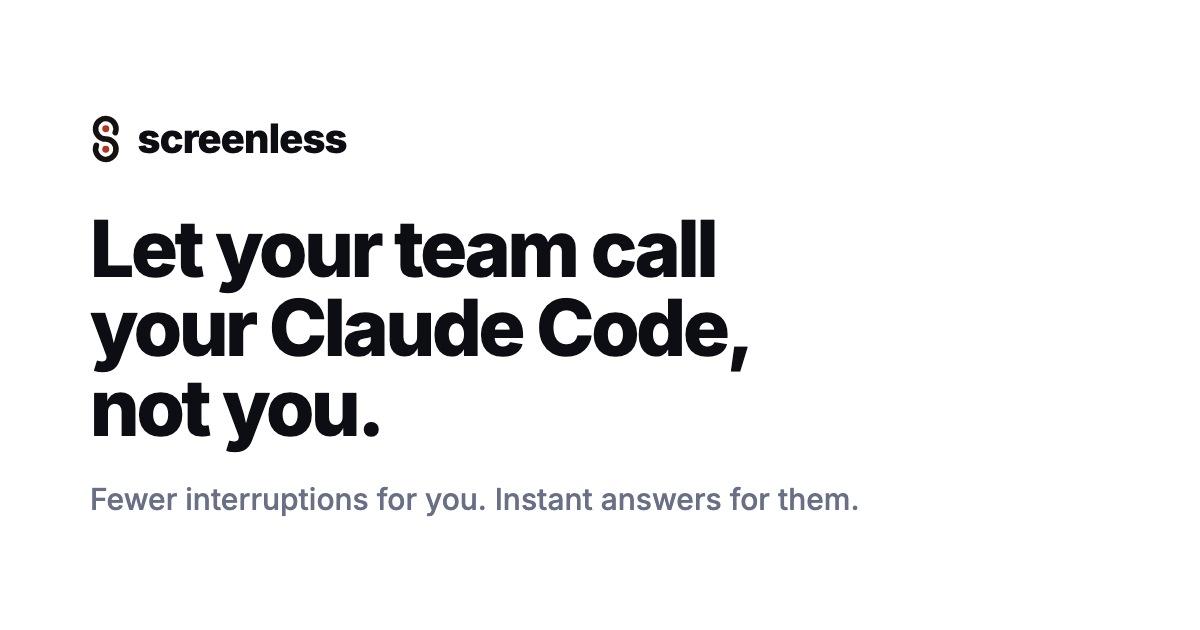
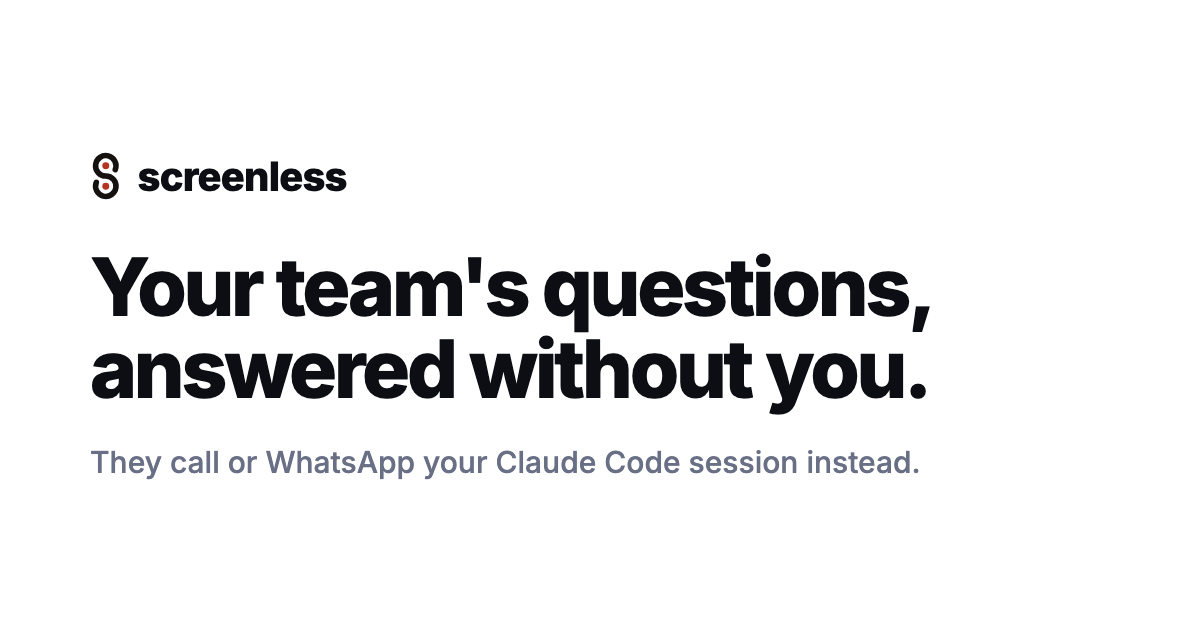
Headline "Your team's questions, answered without you"; say WhatsApp chats
Jan: "Your team's questions, answered without you" is clearer and stronger
than "Let your team call your Claude Code, not you", which reads two
ways. It is the headline now, on the page, the title, the social card,
the README and llms.txt; the section that borrowed that phrase is now
"Everything they used to ask you". And he asked for the page and README
to say what was just built: they can message the session on WhatsApp,
with screenshots and voice notes, a conversation keeping its context —
in the hero, step 3, the "for you" section, a new FAQ answer, and the
Slack answer, which now says screenless is for everywhere but a desk.

Changed region(s): [[0.0617, 0.181, 0.7708, 0.8143]]

diff --git a/site/src/index.html b/site/src/index.html
@@ -3,15 +3,15 @@
 <head>
 <meta charset="utf-8">
 <meta name="viewport" content="width=device-width, initial-scale=1">
-<title>screenless — let your team call your Claude Code</title>
+<title>screenless — your team's questions, answered without you</title>
 <!-- Kept under ~155 characters, which is where Google truncates. The old one
      ran to 192 and lost the price, which is the part people search for. -->
-<meta name="description" content="Let your team call your Claude Code session instead of you: it answers from your code and acts under your rules. By phone or WhatsApp. $10 free.">
+<meta name="description" content="Give your team a number for your Claude Code session: they call or WhatsApp it, and it answers from your code and does what you allow. $10 free.">
 <link rel="canonical" href="https://screenless.sh/">
 <meta name="theme-color" content="#fdfcfa">
 
-<meta property="og:title" content="Let your team call your Claude Code, not you.">
-<meta property="og:description" content="Let your team call your Claude Code session instead of you: it answers from your code and acts under your rules. By phone or WhatsApp. $10 free.">
+<meta property="og:title" content="Your team's questions, answered without you.">
+<meta property="og:description" content="Give your team a number for your Claude Code session: they call or WhatsApp it, and it answers from your code and does what you allow. $10 free.">
 <meta property="og:type" content="website">
 <meta property="og:url" content="https://screenless.sh/">
 <meta property="og:site_name" content="screenless">
@@ -19,10 +19,10 @@
 <meta property="og:image" content="https://screenless.sh/og.png">
 <meta property="og:image:width" content="1200">
 <meta property="og:image:height" content="630">
-<meta property="og:image:alt" content="screenless: let your team call your Claude Code, not you.">
+<meta property="og:image:alt" content="screenless: Your team's questions, answered without you.">
 <meta name="twitter:card" content="summary_large_image">
-<meta name="twitter:title" content="Let your team call your Claude Code, not you.">
-<meta name="twitter:description" content="Let your team call your Claude Code session instead of you: it answers from your code and acts under your rules. By phone or WhatsApp. $10 free.">
+<meta name="twitter:title" content="Your team's questions, answered without you.">
+<meta name="twitter:description" content="Give your team a number for your Claude Code session: they call or WhatsApp it, and it answers from your code and does what you allow. $10 free.">
 <meta name="twitter:image" content="https://screenless.sh/og.png">
 <!-- The mark: an S of two half circles, a dot centred in each bowl. -->
 <link rel="icon" href="/logo.svg" type="image/svg+xml">
@@ -47,7 +47,7 @@
       "url": "https://screenless.sh/",
       "applicationCategory": "DeveloperApplication",
       "operatingSystem": "macOS, Linux",
-      "description": "A phone number for a developer's Claude Code session that their whole team can call. Teammates ring it, by phone or WhatsApp, and the session they reach, with everything it knows right now, answers from the code, tickets and docs, or acts, under rules the developer sets per person, on the developer's own machine. Phone calls are rung back to the caller's verified number. The developer can call it too.",
+      "description": "A phone number for a developer's Claude Code session that their whole team can call or message on WhatsApp. The session they reach, with everything it knows right now, answers from the code, tickets and docs, or acts, under rules the developer sets per person, on the developer's own machine. Phone calls are rung back to the caller's verified number. The developer can use it too.",
       "softwareRequirements": "Node.js 20 or newer, Claude Code",
       "license": "https://opensource.org/licenses/MIT",
       "offers": [
@@ -74,10 +74,18 @@
         },
         {
           "@type": "Question",
-          "name": "Why a call, and not Slack?",
+          "name": "Why this, and not Slack?",
           "acceptedAnswer": {
             "@type": "Answer",
-            "text": "Use both: Slack is great for questions you can type. A call is for when typing does not work: on the road, between meetings, or when a conversation is faster than a thread. And it is not a fresh bot: the call reaches the session you are working in, which knows the branch you are on, the change you have not committed yet, and why yesterday's deploy was rolled back."
+            "text": "Use both: Slack is great at a desk. screenless is for the rest: a call on the road or between meetings, or a WhatsApp message with a screenshot from wherever they are. And it is not a fresh bot: it reaches the session you are working in, which knows the branch you are on, the change you have not committed yet, and why yesterday's deploy was rolled back."
+          }
+        },
+        {
+          "@type": "Question",
+          "name": "Can they message instead of calling?",
+          "acceptedAnswer": {
+            "@type": "Answer",
+            "text": "Yes, on WhatsApp, to the same number. Text, screenshots and voice notes go to your session, which answers in the chat. A conversation keeps its context, so a follow-up just works, until it has been quiet for half an hour."
           }
         },
         {
@@ -358,11 +366,12 @@
     <div class="hero-grid">
       <div class="hero-copy">
         <p class="for">For developers on Claude Code</p>
-        <h1>Let your team call your Claude Code, not you.</h1>
+        <h1>Your team's questions, answered without you.</h1>
         <p class="stand">
-          Every quick question from your team is a call or a huddle that
-          breaks your focus. Give them a number for your Claude Code session
-          instead: it answers, and does what you allow.
+          Every quick question used to be a call or a huddle that broke your
+          focus. Give your team a number for your Claude Code session
+          instead: they call it or WhatsApp it, and it answers and does what
+          you allow.
         </p>
         <p class="diff">
           Not a new bot: the session you are already working in, with
@@ -384,7 +393,7 @@
         </p>
         <ul class="works">
           <li><svg viewBox="0 0 24 24" fill="none" stroke="#0c0e14" stroke-width="1.8" stroke-linecap="round" stroke-linejoin="round" aria-hidden="true"><path d="M5 4h4l2 5-2.5 1.5a11 11 0 0 0 5 5L15 13l5 2v4a2 2 0 0 1-2 2A16 16 0 0 1 3 6a2 2 0 0 1 2-2"/></svg>Any phone</li>
-          <li><svg viewBox="0 0 24 24" fill="none" stroke="#25d366" stroke-width="1.8" stroke-linecap="round" stroke-linejoin="round" aria-hidden="true"><path d="M3.5 20.5l1.3-4.2A8.5 8.5 0 1 1 8 19.4z"/><path d="M9 8.5c0 3.5 3 6.5 6.5 6.5l1-1.6-2-1-1 .8a5 5 0 0 1-2.2-2.2l.8-1-1-2z" fill="#25d366" stroke-width="1"/></svg>WhatsApp <span>HD audio</span></li>
+          <li><svg viewBox="0 0 24 24" fill="none" stroke="#25d366" stroke-width="1.8" stroke-linecap="round" stroke-linejoin="round" aria-hidden="true"><path d="M3.5 20.5l1.3-4.2A8.5 8.5 0 1 1 8 19.4z"/><path d="M9 8.5c0 3.5 3 6.5 6.5 6.5l1-1.6-2-1-1 .8a5 5 0 0 1-2.2-2.2l.8-1-1-2z" fill="#25d366" stroke-width="1"/></svg>WhatsApp <span>calls and chats</span></li>
           <li><svg viewBox="0 0 24 24" fill="none" stroke="#c23a1f" stroke-width="1.8" stroke-linecap="round" stroke-linejoin="round" aria-hidden="true"><rect x="3" y="4" width="18" height="16" rx="3"/><path d="M7 10l3 2-3 2M12 15h5"/></svg>Claude Code</li>
         </ul>
       </div>
@@ -427,7 +436,7 @@
 <div class="wrap">
   <section id="asks">
     <p class="kicker">what they ask</p>
-    <h2>The quick questions, answered without you.</h2>
+    <h2>Everything they used to ask you.</h2>
     <!-- Illustrations of what a team asks a developer's session, not
          quotes from customers: there are none to quote yet. -->
     <ul class="asks">
@@ -447,7 +456,7 @@
 <section id="how" class="band">
   <div class="wrap">
     <p class="kicker">how it works</p>
-    <h2>Three steps. Then they just call.</h2>
+    <h2>Three steps. Then they just ask.</h2>
     <ol class="steps">
       <li>
         <span class="n">1</span>
@@ -461,8 +470,8 @@
       </li>
       <li>
         <span class="n">3</span>
-        <h3>They call</h3>
-        <p>Type <code>/screenless</code> in your session and it answers the line: from any phone, or WhatsApp for HD audio.</p>
+        <h3>They call or message</h3>
+        <p>Type <code>/screenless</code> in your session and it answers: phone calls, WhatsApp calls in HD, and WhatsApp messages with screenshots and voice notes.</p>
       </li>
     </ol>
   </div>
@@ -499,7 +508,8 @@
       <h2>Call it yourself, too.</h2>
       <p class="lede">
         On a walk or in the car, ask your session where things stand, and have
-        it fix, push or deploy while you are still on the line.
+        it fix, push or deploy while you are still on the line, or send it a
+        WhatsApp with a screenshot and let it get on with it.
       </p>
       <p class="lede">
         And when an agent hits a decision only you can make, it can call you:
@@ -554,8 +564,12 @@
         <p>It lets you reach your agent. This lets your team reach it: by phone, with no laptop, seat or account, under rules you set. The quick questions stop coming to you.</p>
       </details>
       <details>
-        <summary>Why a call, and not Slack?</summary>
-        <p>Use both: Slack is great for questions you can type. A call is for when typing does not work: on the road, between meetings, or when a conversation is faster than a thread. And it is not a fresh bot: the call reaches the session you are working in, which knows the branch you are on, the change you have not committed yet, and why yesterday's deploy was rolled back.</p>
+        <summary>Why this, and not Slack?</summary>
+        <p>Use both: Slack is great at a desk. screenless is for the rest: a call on the road or between meetings, or a WhatsApp message with a screenshot from wherever they are. And it is not a fresh bot: it reaches the session you are working in, which knows the branch you are on, the change you have not committed yet, and why yesterday's deploy was rolled back.</p>
+      </details>
+      <details>
+        <summary>Can they message instead of calling?</summary>
+        <p>Yes, on WhatsApp, to the same number. Text, screenshots and voice notes go to your session, which answers in the chat. A conversation keeps its context, so a follow-up just works, until it has been quiet for half an hour.</p>
       </details>
       <details>
         <summary>What if my laptop is closed?</summary>

diff --git a/README.md b/README.md
@@ -1,30 +1,40 @@
 # screenless
 
-**Let your team call your Claude Code, not you.** Every "quick question" is a
-call or a huddle that pulls a developer out of their work. screenless gives
-your team a phone number for your Claude Code session instead: it answers from
-your code, tickets and docs, and does what you allow, right away, on your own
-machine. You get fewer interruptions; they stop waiting on you. And you can
-call it yourself, from a walk or the car.
+**Your team's questions, answered without you.** Every quick question used to
+be a call or a huddle that pulled a developer out of their work. screenless
+gives your team a number for your Claude Code session instead: they call it,
+or message it on WhatsApp, and it answers from your code, tickets and docs,
+and does what you allow, right away, on your own machine. You get fewer
+interruptions; they stop waiting on you. And you can use it yourself, from a
+walk or the car.
 
 Hear a demo call at **[screenless.sh](https://screenless.sh)**.
 
 ## How it works
 
-1. **Install** — `curl -fsSL https://screenless.sh/install | bash` installs the
-   CLI and verifies your phone number.
+1. **Install** — paste `Install https://screenless.sh/llms.txt into this repo
+   and invite my team.` into Claude Code. It installs the CLI, verifies your
+   number and invites your colleagues; or by hand,
+   `curl -fsSL https://screenless.sh/install | bash`.
 2. **Arm a session** — type **`/screenless`** in Claude Code. That session now
    answers the line.
-3. **Call** — ring the number, or call it on WhatsApp. A voice talks with you;
-   each thing you ask runs in a fork of your session on your machine, and the
-   answer is spoken back during the call. Read, edit, test, commit, push,
-   deploy, post to Slack: whatever the session can do at the keyboard. It tells
-   you how longer work is going while you wait.
+3. **Call or message** — ring the number, or call it on WhatsApp. A voice
+   talks with you; each thing you ask runs in a fork of your session on your
+   machine, and the answer is spoken back during the call. Read, edit, test,
+   commit, push, deploy, post to Slack: whatever the session can do at the
+   keyboard. It tells you how longer work is going while you wait.
+
+   Or send it a **WhatsApp message**, with screenshots and voice notes. Each
+   conversation gets one fork of your session, carried on with every message
+   (`--resume`), so a follow-up keeps its context; after 30 minutes of quiet
+   the next message starts a fresh fork from the session as it is then. The
+   answer comes back in the chat.
 
 **Only you get through.** The line never answers a phone call on its caller id,
 which is easy to spoof: it hangs up and rings your verified number straight
-back, so only your phone can pick up. A WhatsApp call is tied to your account
-and is answered at once.
+back, so only your phone can pick up. A WhatsApp call or message is tied to
+your account and is answered at once; the Worker only takes a WhatsApp message
+that Telnyx signed.
 
 **The voice holds no keys.** It has no tools and no credentials; it talks, and
 your session acts. Your code, your MCPs, your logged-in browser and your Claude
@@ -99,7 +109,8 @@ Manage your team, roles and billing at
 screenless.sh: phone calls with the ring-back, WhatsApp calls, live answers
 from a fork of the session, progress updates, barge-in, wideband audio.
 Ringing in to the queue, calling teammates, teams, invites and pay-as-you-go
-billing work too.
+billing work too. **WhatsApp messages** to the session are the newest part: deployed,
+and being tried on real chats now.
 
 What is **still early is the intelligence in the skills** — the morning
 briefing's hard part, reading a queue of pull requests and picking out the few
